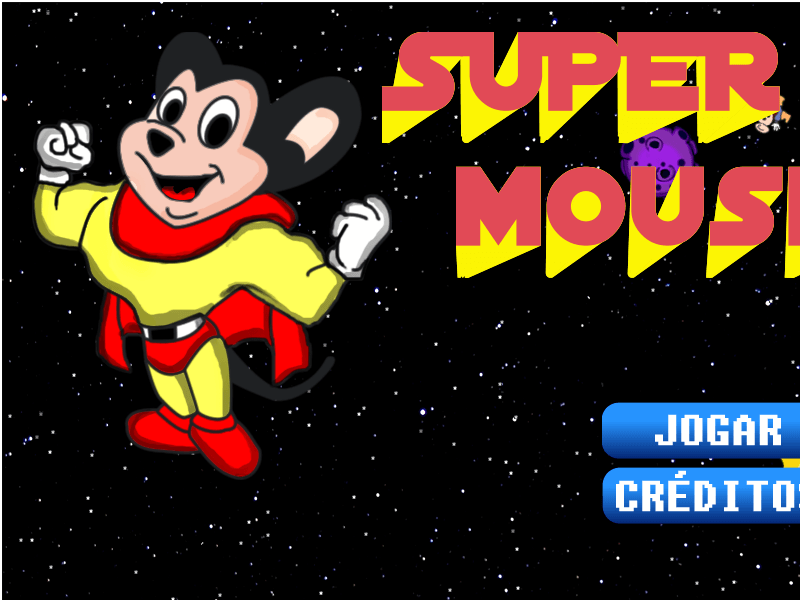
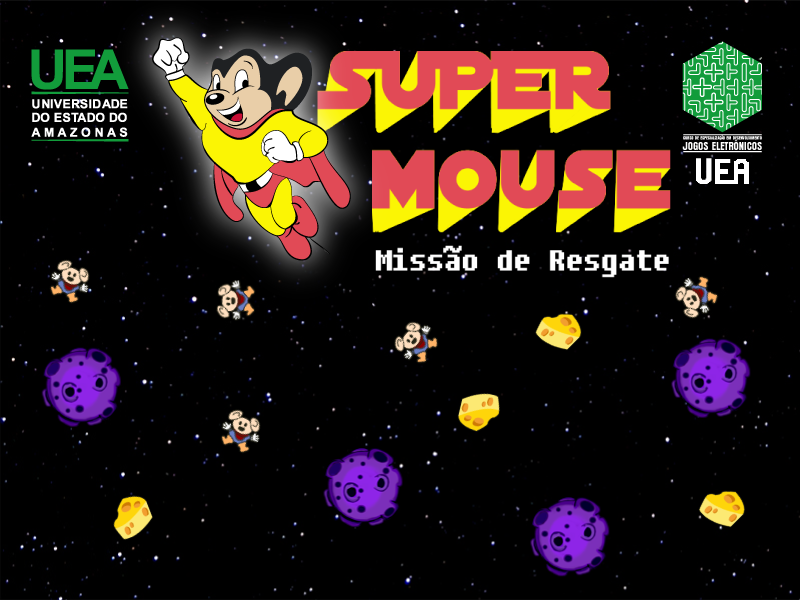
how to play

diff --git a/saidesigner/supermouse/js/Game.js b/saidesigner/supermouse/js/Game.js
@@ -10,9 +10,9 @@ SuperMouse.Game = function(game) {
 	this.ratSnd;
 	this.eatSnd;
 	this.ambience;
-	this.health;	
-	this.keyPressed = false;	
+	this.health;			
 	this.scoreText;
+	this.keyPressed = false;	
 }; 
 
 SuperMouse.Game.prototype.preload = function() {	
@@ -38,12 +38,9 @@ SuperMouse.Game.prototype.create = function() {
 	this.player.animations.add('fly4', [16, 17, 18], 30, true);
 	this.player.animations.add('fly5', [19], 30, true);
 	this.player.animations.play('fly');
+	this.player.body.gravity.y = 0;
 	this.player.checkWorldBounds = true;
 	this.player.outOfBoundsKill = true;	
-	this.player.body.allowRotation = true;	
-	this.player.body.angularVelocity = 100;	
-	this.player.body.gravity.y = 100;
-	this.player.body.acceleration.y = 200;	
 	this.player.health = 11;
 	this.player.events.onKilled.add(this.gameOver, this);
 
@@ -69,30 +66,44 @@ SuperMouse.Game.prototype.create = function() {
 
 	// howToPlay
 
-	howToPlay = Utils.createText(this, 200, 280, 30, '#ffffff', '#aaaaaa');
-	howToPlay.text = "Click com o mouse\npara voar";
+	var howToPlay = Utils.createText(this, 205, 280, 20, '#ffffff', '#aaaaaa');
+	howToPlay.text = "Click e segure para voar\n\nDesvie dos asteroides\ne\nresgate os ratinhos";
 	howToPlay.align = "center";
 
- 	s = this.game.add.tween(howToPlay)
-	s.to({ alpha: 0 }, 3000, null)
-	.start();
+	var s = this.add.tween(howToPlay);
+
+ 	s.onComplete.add(function() {
+	 	this.player.body.allowRotation = true;		 	
+		this.player.body.gravity.y = 100;
+		this.player.body.acceleration.y = 200;
+		this.player.body.angularVelocity = 30;
+ 	}, this);
+
+	s.to({ alpha: 0 }, 5000, null).start();
 };
 
 SuperMouse.Game.prototype.update = function() {
 
+	Utils.reviveStar(this, this.stars);
+	this.scoreText.text = Utils.pad(score, 3);
+	this.health.frame = this.player.health - 1;		
+
+	if (this.player.body.gravity.y <= 0) {
+		return;
+	}
+
 	if (this.player.health > 1) {
+
 		this.physics.arcade.overlap(this.player, this.asteroids, this.collisionHandler, this.collisionCheck, this);
 		this.physics.arcade.overlap(this.player, this.cheeses, this.collisionHandler, this.collisionCheck, this);
 		this.physics.arcade.overlap(this.player, this.rats, this.collisionHandler, this.collisionCheck, this);		
-		this.movPlayer();
+		
+		this.movPlayer();		
 	}
-
-	Utils.reviveStar(this, this.stars);
+	
 	Utils.reviveAsteroid(this, this.asteroids, -350, 0);
 	Utils.reviveCheese(this, this.cheeses, -150, 0);
-	Utils.reviveRat(this, this.rats, -150, 0);		
-	this.scoreText.text = Utils.pad(score, 3);
-	this.health.frame = this.player.health - 1;	
+	Utils.reviveRat(this, this.rats, -150, 0);
 };
 
 SuperMouse.Game.prototype.movPlayer = function() {

diff --git a/saidesigner/supermouse/js/Menu.js b/saidesigner/supermouse/js/Menu.js
@@ -30,6 +30,9 @@ SuperMouse.Menu.prototype.create = function() {
 	btCredits.inputEnabled = true;
 	btCredits.input.useHandCursor = true;
 
+	var title = Utils.createText(this, 500, 300, 20, '#ffffff', '#000000');
+	title.text = "Missão de Resgate";	
+
 	Utils.reviveAsteroid(this, this.asteroids, -30, 0);
 	Utils.reviveCheese(this, this.cheeses, -20, 0);
 	Utils.reviveRat(this, this.rats, -20, 0);

diff --git a/saidesigner/supermouse/js/Utils.js b/saidesigner/supermouse/js/Utils.js
@@ -102,8 +102,7 @@ Utils.createText = function(game, posX, posY, size, color, shadow) {
     var text = game.add.text(posX, posY);
 
     text.font = 'Press Start';
-    text.fontSize = size;
-    //text.fontWeight = 'bold';
+    text.fontSize = size;    
     var grd = text.context.createLinearGradient(0, 0, 0, text.canvas.height);
 
     grd.addColorStop(0, color);       
